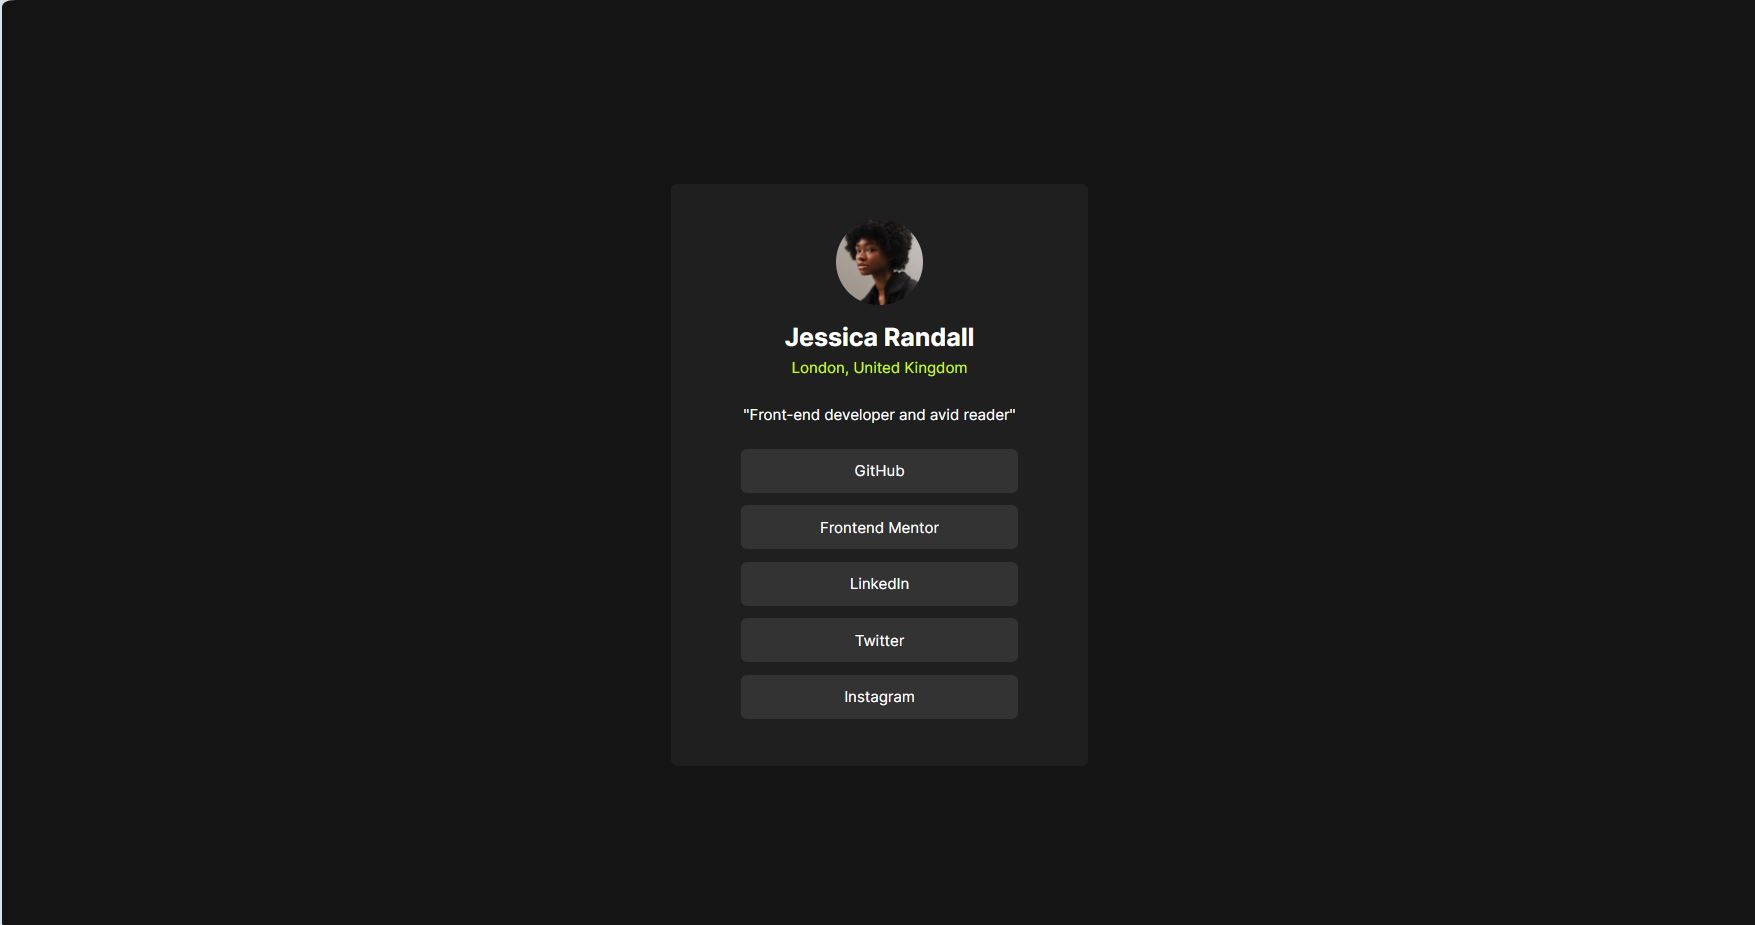
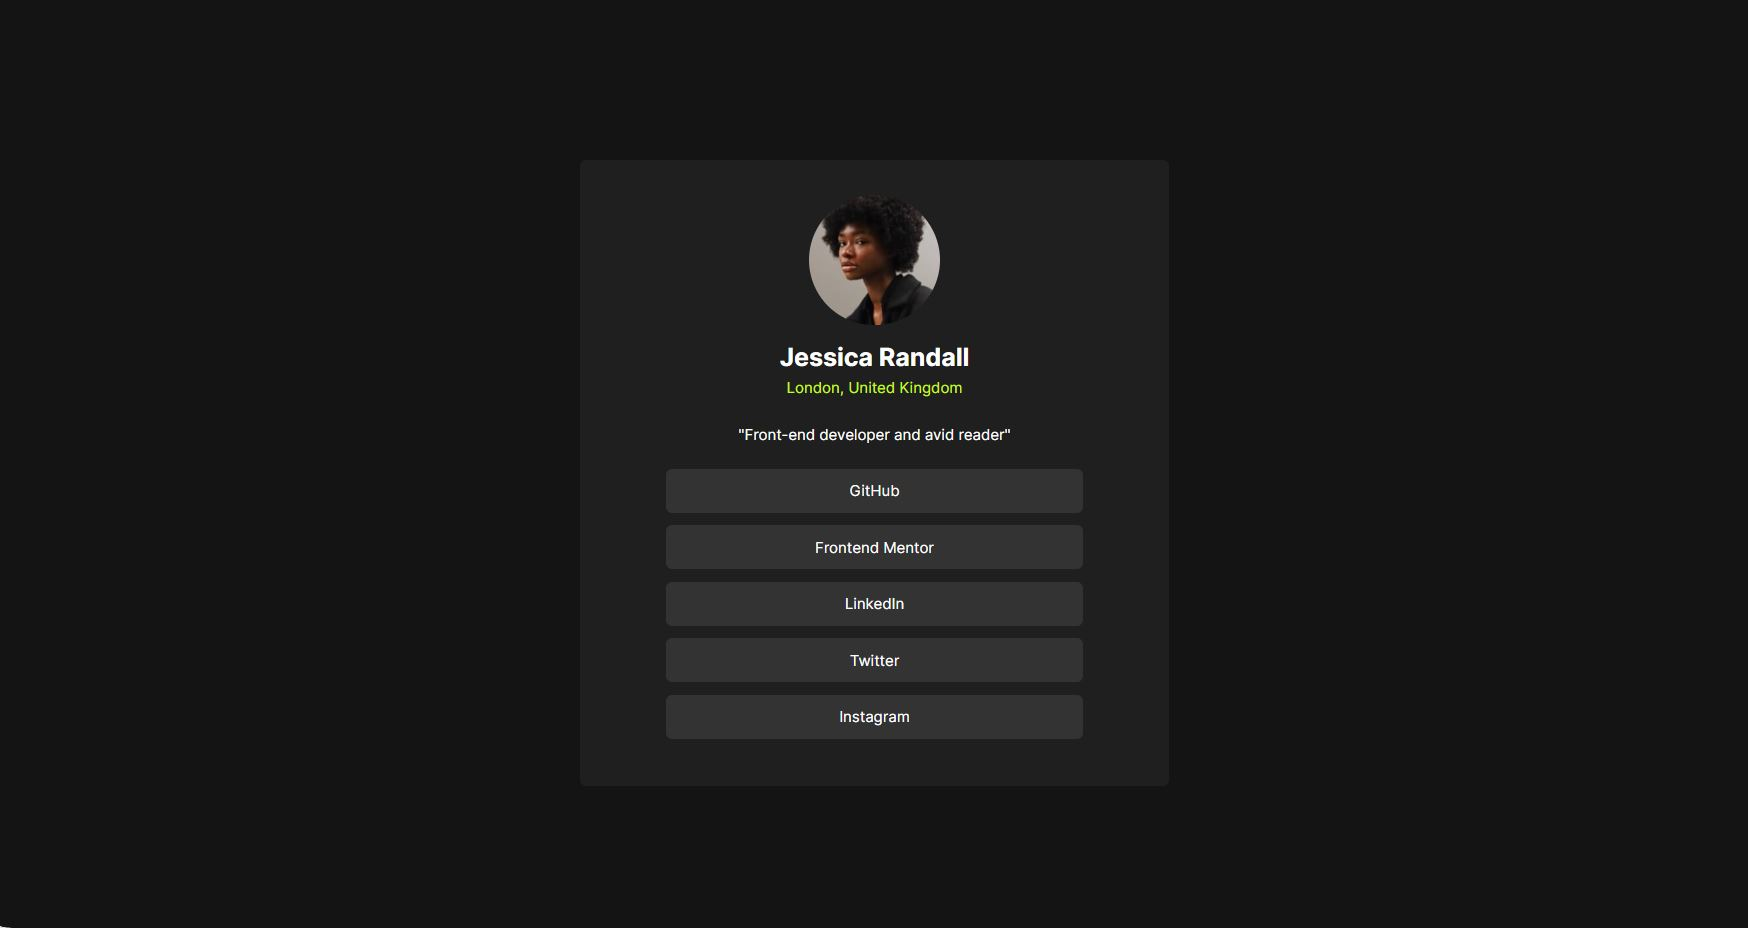
Wrapper resizing

Changed region(s): [[0.4325, 0.2422, 0.587, 0.787], [0.0, 0.9989, 0.0309, 1.0]]

diff --git a/style.css b/style.css
@@ -20,7 +20,7 @@ body {
 
 main {
   margin: auto;
-  width: 20%;
+  width: 30%;
   background-color: hsl(0, 0%, 12%);
   border-radius: 5px;
   display: flex;
@@ -72,21 +72,17 @@ h1 {
 }
 
 /* Tablet view, Landscape and Portrait */
-@media only screen and (min-device-width: 86px) and (max-device-width: 1024px) and (-webkit-min-device-pixel-ratio: 1) {
+@media only screen and (min-device-width: 500px) and (max-device-width: 860px) and (-webkit-min-device-pixel-ratio: 2) {
   main {
-    width: 33%;
+    width: 50%;
   }
 }
 
 /* Mobile view, Landscape and Portrait */
-@media only screen and (min-device-width: 500px) and (max-device-width: 860px) and (-webkit-min-device-pixel-ratio: 2) {
-  main {
-    width: 45%;
-  }
-}
+
 
 @media only screen and (min-device-width: 300px) and (max-device-width: 500px) and (-webkit-min-device-pixel-ratio: 2) {
   main {
-    width: 60%;
+    width: 75%;
   }
 }
